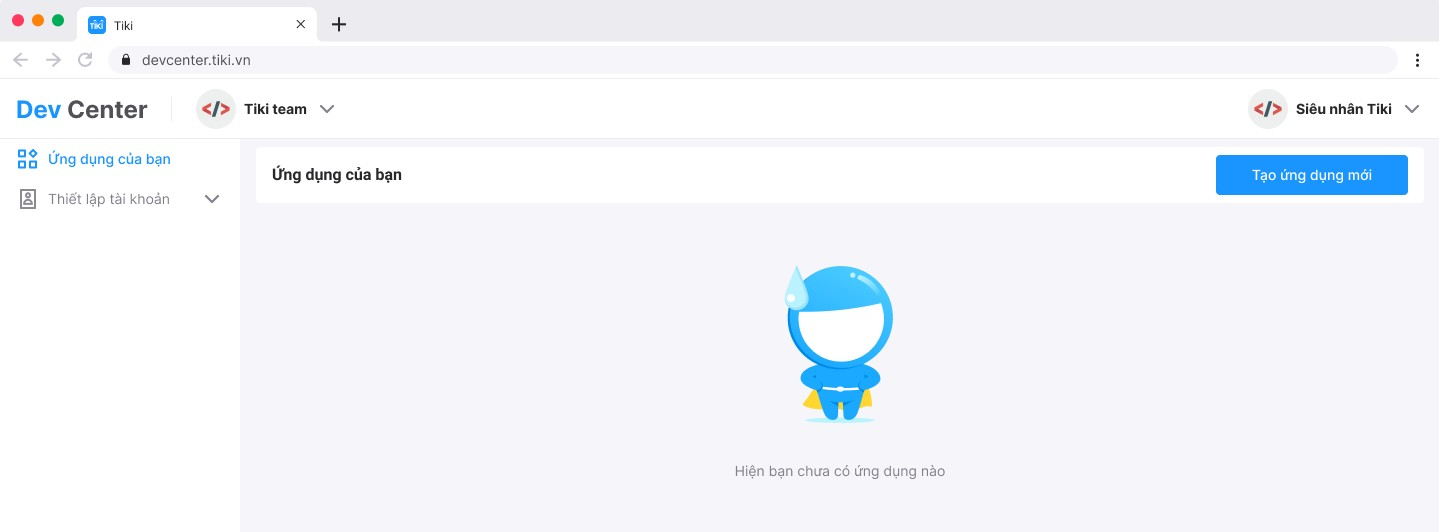
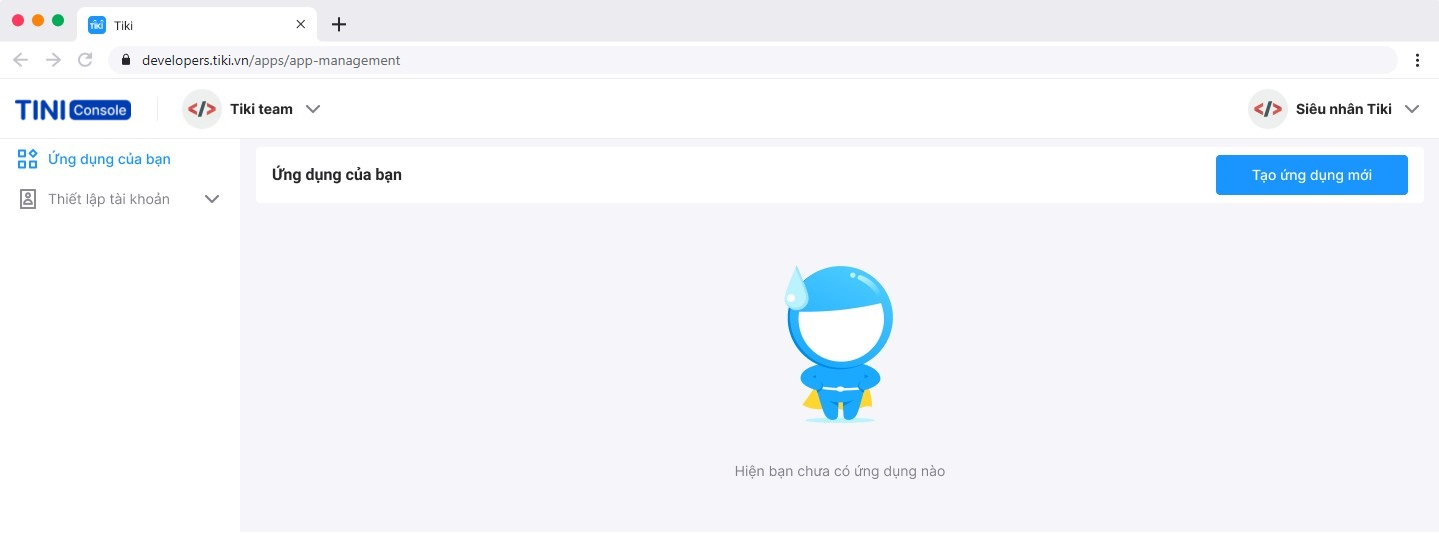
Change Dev Center to  Tini Console in screenshots

diff --git a/docs/developer/introduce/release.md b/docs/developer/introduce/release.md
@@ -22,9 +22,8 @@ Cuối cùng bạn **Publish** release đã được phê duyệt.
 2. Sidebar menu >> **Ứng dụng của bạn**.
 3. Mở ứng dụng mong muốn.
 4. Sidebar menu >> **Release**. Danh sách release của ứng dụng sẽ xuất hiện.
-   <img style={{width: "100%"}} src="https://salt.tikicdn.com/ts/upload/19/d6/c2/0a4b6f53dd4fe8bed130daa316ebd19c.png"/>
+   <img src="/img/Release_list.png" width="900px" alt="Release list" style={{ margin: '0 auto', display: 'flex' }}/>
 5. Để xem danh sách build của một release, click vào **Xem** tương ứng với release mong muốn.
-   
 
 ## Submit build for review
 
@@ -32,8 +31,11 @@ Cuối cùng bạn **Publish** release đã được phê duyệt.
 2. Sidebar menu >> **Ứng dụng của bạn**.
 3. Mở ứng dụng mong muốn.
 4. Sidebar menu >> **Release**. Danh sách release của ứng dụng sẽ xuất hiện
-5. Click vào **Xem** tương ứng với release mong muốn.
-6. Nhấn nút **Submit build [number] for review** ở cuối trang. Mặc nhiên build mới nhất có trạng thái "Ready" của release sẽ được chọn gửi đi.
+5. Click vào **Xem** tương ứng với release mong muốn. 
+6. Điền vào mục **Thông tin ứng dụng**.
+   <img src="/img/Submit_Build_for_Review.png" width="700px" alt="Submit Build for Review" style={{ margin: '0 auto', display: 'flex' }}/>
+7. Đánh dấu chọn vào ô **Xuất bản ứng dụng ngay sau khi thông qua kiểm duyệt** nếu như bạn muốn build (release) này tự động publish lên Kho tiện ích ngay sau khi Bộ phận phê duyệt của Tiki chấp thuận.
+8. Nhấn nút **Submit build [number] for review** ở cuối trang. Mặc nhiên build mới nhất có trạng thái "Ready" của release sẽ được chọn gửi đi.
 
 ## Publish release trên Kho tiện ích
 
@@ -43,9 +45,6 @@ Cuối cùng bạn **Publish** release đã được phê duyệt.
 4. Sidebar menu >> **Release**. Danh sách release của ứng dụng sẽ xuất hiện
 5. Click vào **Xem** tương ứng với release mong muốn.
 6. Nhấn nút **Publish** ở cuối trang. 
-   
-<img style={{width: "100%"}} src="https://salt.tikicdn.com/ts/upload/73/64/1c/a65373c67e8a1ae6465234e562b01089.png"/>
-
 
 ## Trạng thái ứng dụng
 

diff --git a/docs/developer/introduce/member.md b/docs/developer/introduce/member.md
@@ -30,7 +30,7 @@ Những người là thành viên xuyên suốt, tham gia phát triển/ kiểm 
 1. Truy cập vào [Tini Console](https://developer.tiki.vn/apps).
 2. Sidebar menu >> **Thiết lập tài khoản** >> **Quản lý thành viên**
 
-<img style={{width: "100%"}} src="https://salt.tikicdn.com/ts/social/a3/f0/05/30917e3903698af22d9d60c0c6e9e066.png"/>
+<img src="/img/Permanent_Member_list.png" style={{ margin: '0 auto', display: 'flex' }}/>
 
 ### Thêm thành viên thường trực
 
@@ -40,7 +40,7 @@ Những người là thành viên xuyên suốt, tham gia phát triển/ kiểm 
 4. Trong hộp thoại **Thêm thành viên**, nhập địa chỉ email dùng để đăng ký tài khoản Tiki của người mà bạn đang muốn thêm vào, và chọn vai trò mặc định cho người đó. Kế đó bấm nút **Thêm**
    <img src="/img/New_Permanent_Member_form.jpg" width="250px" style={{ margin: '0 auto', display: 'flex' }}/>
 5. Trong trang "Thêm thành viên", xác định vai trò của thành viên đó trong từng dự án cụ thể. Sau đó, bấm nút **Hoàn tất**.
-   <img style={{width: "100%"}} src="https://salt.tikicdn.com/ts/upload/b5/5e/0c/30104b6bfe4d39bb1136e2035b8e3b4a.jpg"/>
+   <img src="/img/Assign_Role_to_Member.jpg" width="800px" alt="Assign roles" style={{ margin: '0 auto', display: 'flex' }}/>
 
 ## Quản lý Thành viên phát triển ứng dụng
 

diff --git a/docs/developer/introduce/share-app.md b/docs/developer/introduce/share-app.md
@@ -12,7 +12,7 @@ Cách thức lấy mã QR hay liên kết của một Tini App như sau:
 2. Sidebar menu >> **Ứng dụng của bạn**.
 3. Mở ứng dụng mong muốn.
 4. Bấm nút **Lưu ảnh** về để tải về mã QR trường hợp bạn muốn chia sẻ thông qua mã QR, hoặc bấm nút **Sao chép** bên cạnh **Link ứng dụng** trường hợp bạn muốn chia sẻ thông qua liên kết.
-   <img src="/img/QRcode_App.png" width="800px" alt="QR code of Buid" style={{ margin: '0 auto', display: 'flex' }}/>
+   <img src="/img/QRcode_App.png" width="800px" alt="QR code & link of Tini App " style={{ margin: '0 auto', display: 'flex' }}/>
 5. Gửi mã QR hay liên kết đến những người mà bạn muốn chia sẻ.
 
 - - -
